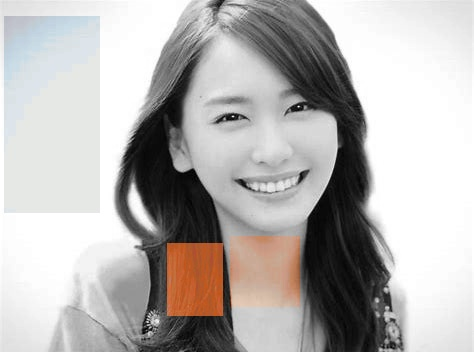
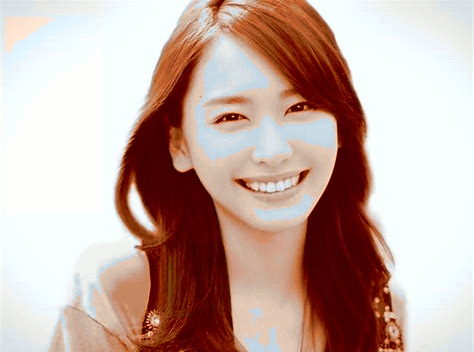
Finish color transfer.

diff --git a/colorization/transferer.hpp b/colorization/transferer.hpp
@@ -2,7 +2,7 @@
  * @Author: Fan Hsuan-Wei
  * @Date: 2019-12-20 01:38:57
  * @LastEditors  : Fan Hsuan-Wei
- * @LastEditTime : 2020-01-09 16:37:40
+ * @LastEditTime : 2020-01-09 17:27:22
  * @Description: Transferer provides API to transfer color to a gray scale image.
  */
 #ifndef COLORIZE_TRANSFERER_H
@@ -76,12 +76,12 @@ int Transferer::colorize(const std::string &src_path, const std::string &target_
 
 int Transferer::colorize(const std::string &src_path, const std::string &target_path, const std::string &res_path, std::vector<Swatch> &swatches)
 {
-    if (_src.load(src_path) || _target.load(target_path))
+    if (_src.load(src_path) || _target.load(target_path) || _res.load(target_path))
     {
         // Fail to load image
         return 1;
     }
-
+    std::vector<std::pair<int, int>> swatch_samples;
     for (auto &s : swatches)
     {
         if (_target.remap_histogram(_src, s, CHANNEL::L))
@@ -95,14 +95,78 @@ int Transferer::colorize(const std::string &src_path, const std::string &target_
             printf("Fail to sample source image\n");
             return 1;
         }
+
         if (_target.transfer(_src, sample_arr, 5, 0.5, s.target_minw, s.target_maxw, s.target_minh, s.target_maxh))
         {
             printf("Fail to transfer color.\n");
             return 1;
         }
-    }
 
-    if (_target.save(res_path))
+        if (_target.jitter_sampling(50, sample_arr, s.target_minw, s.target_maxw, s.target_minh, s.target_maxh))
+        {
+            printf("Fail to sample swatch\n");
+            return 1;
+        }
+        for (auto &s : sample_arr)
+        {
+            swatch_samples.push_back(s);
+        }
+    }
+    int process_bar = 0;
+#pragma omp parallel for
+    for (int w = 0; w < _target.width(); w++)
+    {
+        for (int h = 0; h < _target.height(); h++)
+        {
+            process_bar++;
+            printf("\rSwatch transfer process: %.2f %%", ((double)process_bar * 100.0 / (double)(_target.width() * _target.height())));
+            double e = Utils::MAX_E;
+            int neighbor_size = 2;
+            // Error function:
+            int best_w = w, best_h = h;
+            for (auto s : swatch_samples)
+            {
+                int cnt = 0;
+                double tmp_e = 0;
+                int sample_w = s.first;
+                int sample_h = s.second;
+                for (int wi = -neighbor_size; wi <= neighbor_size; wi++)
+                {
+                    for (int hi = -neighbor_size; hi <= neighbor_size; hi++)
+                    {
+                        int sw = sample_w + wi;
+                        int sh = sample_h + hi;
+                        int tw = w + wi;
+                        int th = h + hi;
+                        uint8_t s_val, t_val;
+                        if (_target.get_pixel(sw, sh, CHANNEL::L, s_val) || _target.get_pixel(tw, th, CHANNEL::L, t_val)) {
+                            continue;
+                        }
+                        cnt ++;
+                        tmp_e += (s_val - t_val) * (s_val - t_val);
+                    }
+                }
+                if(cnt > 0) {
+                    tmp_e /= (double)cnt;
+                    if(tmp_e < e)
+                    {
+                        e = tmp_e;
+                        best_w = sample_w;
+                        best_h = sample_h;
+                    }
+                }
+            }
+            uint8_t a = 0, b = 0;
+            if (_target.get_pixel(best_w, best_h, CHANNEL::A, a) || _target.get_pixel(best_w, best_h, CHANNEL::B, b))
+            {
+                printf("Fail to get source image channel.\n");
+            }
+            _res.set_pixel(w, h, A, a);
+            _res.set_pixel(w, h, B, b);
+        }
+    }
+    printf("\n");
+    if (_res.save(res_path))
     {
         printf("Fail to save image.\n");
         return 1;

diff --git a/pytools/drawbox.py b/pytools/drawbox.py
@@ -2,23 +2,22 @@
 @Author: Fan Hsuan-Wei
 @Date: 2020-01-09 22:07:10
 @LastEditors  : Fan Hsuan-Wei
-@LastEditTime : 2020-01-10 00:29:17
+@LastEditTime : 2020-01-10 01:50:29
 @Description: file content
 '''
 import cv2
 
 if __name__ == "__main__":
     img_dir = "../img/colorize/"
-    src_name = "color_2"
-    target_name = "gray_2"
+    src_name = "color_5"
+    target_name = "gray_5"
     img_type = ".jpg"
     src_img = cv2.imread(img_dir + src_name + img_type, cv2.IMREAD_COLOR)
     target_img = cv2.imread(img_dir + target_name + img_type, cv2.IMREAD_COLOR)
     swatches = list()
-    swatches.append((((270, 85), (320, 150),(230, 236), (300, 307)), (0, 255, 0)))
-    swatches.append((((88, 112), (148, 202), (167, 243), (223, 316)), (0, 0, 255)))
-    swatches.append((((380, 60), (465, 254), (4, 16), (100, 213)), (255, 0, 0)))
-    with open(f"{img_dir}swatch_2.txt", "w") as f:
+    swatches.append((((736, 351), (799, 413), (390, 428), (520, 520)), (0, 255, 0)))
+    swatches.append((((793, 93), (919, 184), (342, 109), (381, 154)), (0,0, 255)))
+    with open(f"{img_dir}swatch_5.txt", "w") as f:
         for s in swatches:
             boxes = s[0]
             color = s[1]

diff --git a/colorization/image_handler.hpp b/colorization/image_handler.hpp
@@ -2,7 +2,7 @@
  * @Author: Fan Hsuan-Wei
  * @Date: 2019-12-19 11:02:27
  * @LastEditors  : Fan Hsuan-Wei
- * @LastEditTime : 2020-01-09 16:43:17
+ * @LastEditTime : 2020-01-09 17:11:47
  * @Description: This header is used to deal with image files.
  */
 #ifndef COLORIZE_IMAGE_HANDLER
@@ -196,7 +196,7 @@ int LabImage::get_pixel(const int &w, const int &h, const CHANNEL &channel, uint
 {
     if (w < 0 || w >= _width || h < 0 || h >= _height)
     {
-        printf("Invalid w, h in getting pixel\n");
+        // printf("Invalid w, h in getting pixel\n");
         return 1;
     }
     value = _pixel_ptr[h * _width * _channels + w * _channels + (int)channel];

diff --git a/Colorization/main.cpp b/Colorization/main.cpp
@@ -2,7 +2,7 @@
  * @Author: Fan Hsuan-Wei
  * @Date: 2019-12-19 11:29:55
  * @LastEditors  : Fan Hsuan-Wei
- * @LastEditTime : 2020-01-09 16:42:57
+ * @LastEditTime : 2020-01-09 17:53:47
  * @Description: main function 
  */
 
@@ -67,8 +67,9 @@ void swatch_colorize(std::string &img_dir, int img_num)
 int main()
 {
     std::string img_dir = "./img/colorize/";
-    // transfer_to_gray(img_dir + "gray_3.jpg");
-    global_colorize(img_dir, 4);
-    swatch_colorize(img_dir, 2);
+    transfer_to_gray(img_dir + "gray_5.jpg");
+    global_colorize(img_dir, 5);
+    swatch_colorize(img_dir, 4);
+    swatch_colorize(img_dir, 5);
     return 0;
 }

diff --git a/colorization/utils.hpp b/colorization/utils.hpp
@@ -2,7 +2,7 @@
  * @Author: Fan Hsuan-Wei
  * @Date: 2020-01-09 13:33:45
  * @LastEditors  : Fan Hsuan-Wei
- * @LastEditTime : 2020-01-09 13:35:27
+ * @LastEditTime : 2020-01-09 16:51:37
  * @Description: file content
  */
 #ifndef COLORIZE_UTILS_H
@@ -20,6 +20,9 @@ class Utils
 {
 public:
     static std::vector<Swatch> get_swatch(std::string &file_name);
+    static double MAX_E;
 };
+
+double Utils::MAX_E = 1e10;
 
 #endif // !COLORIZE_UTILS_H
